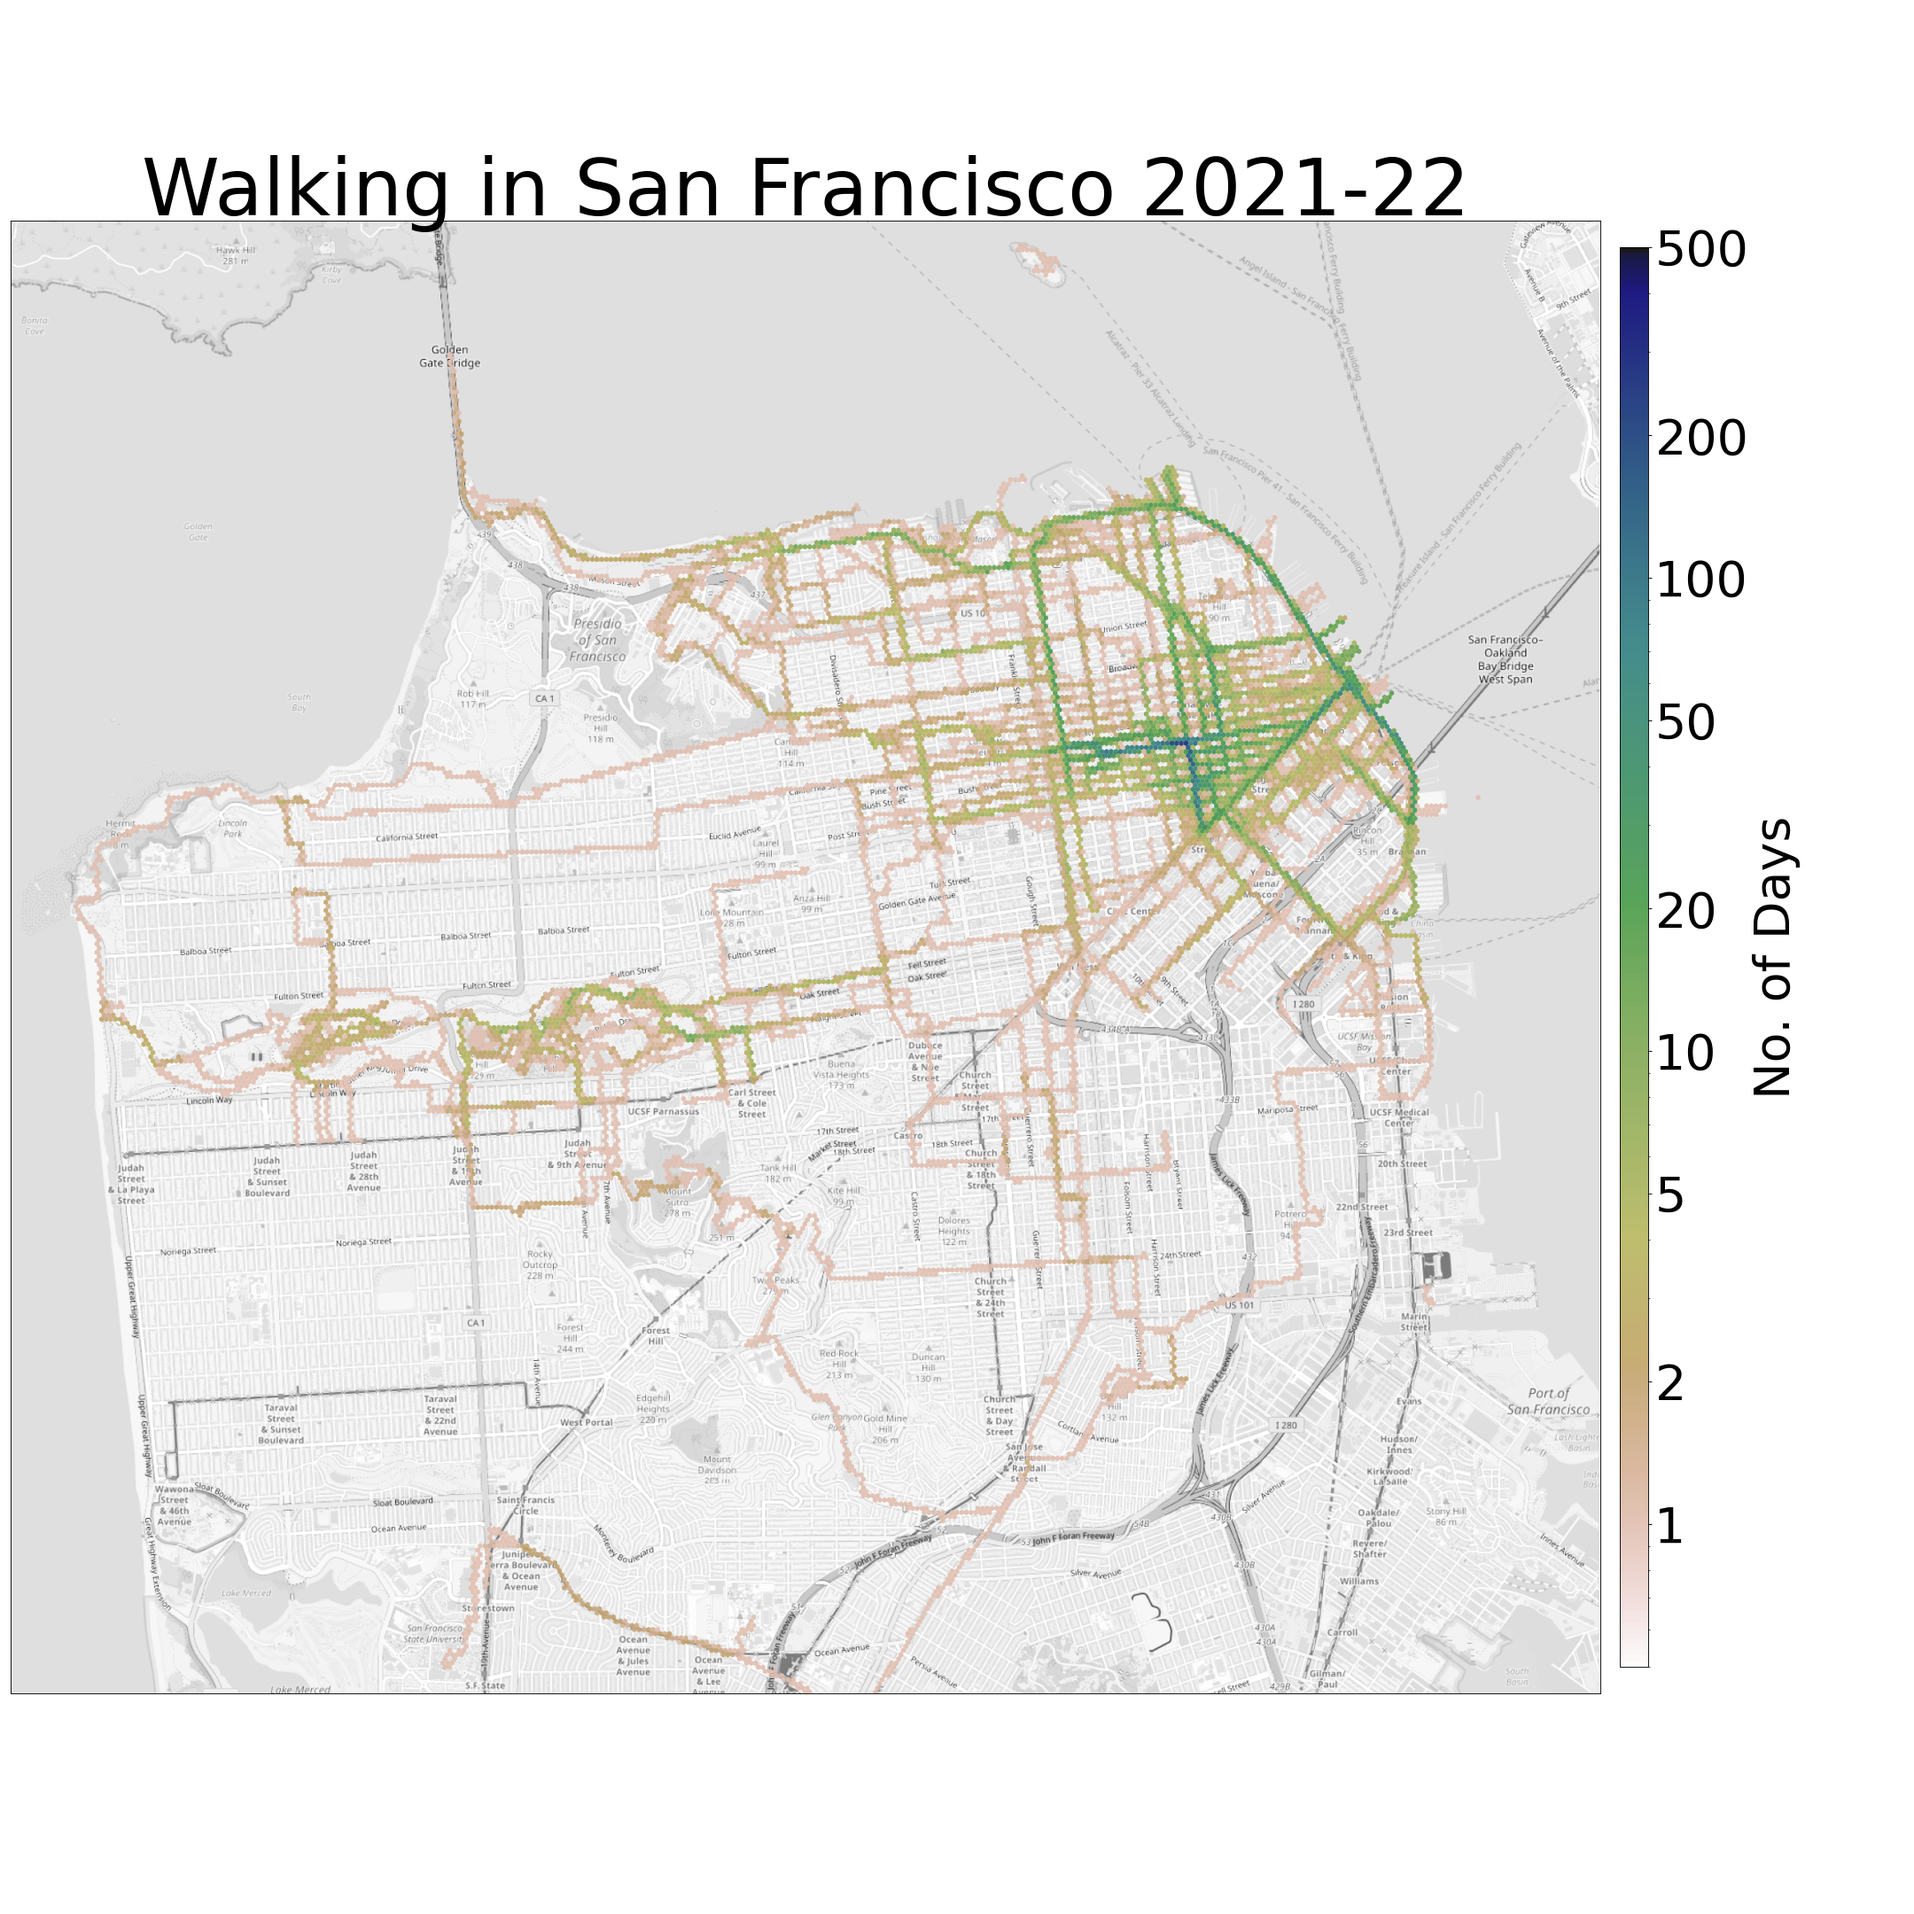
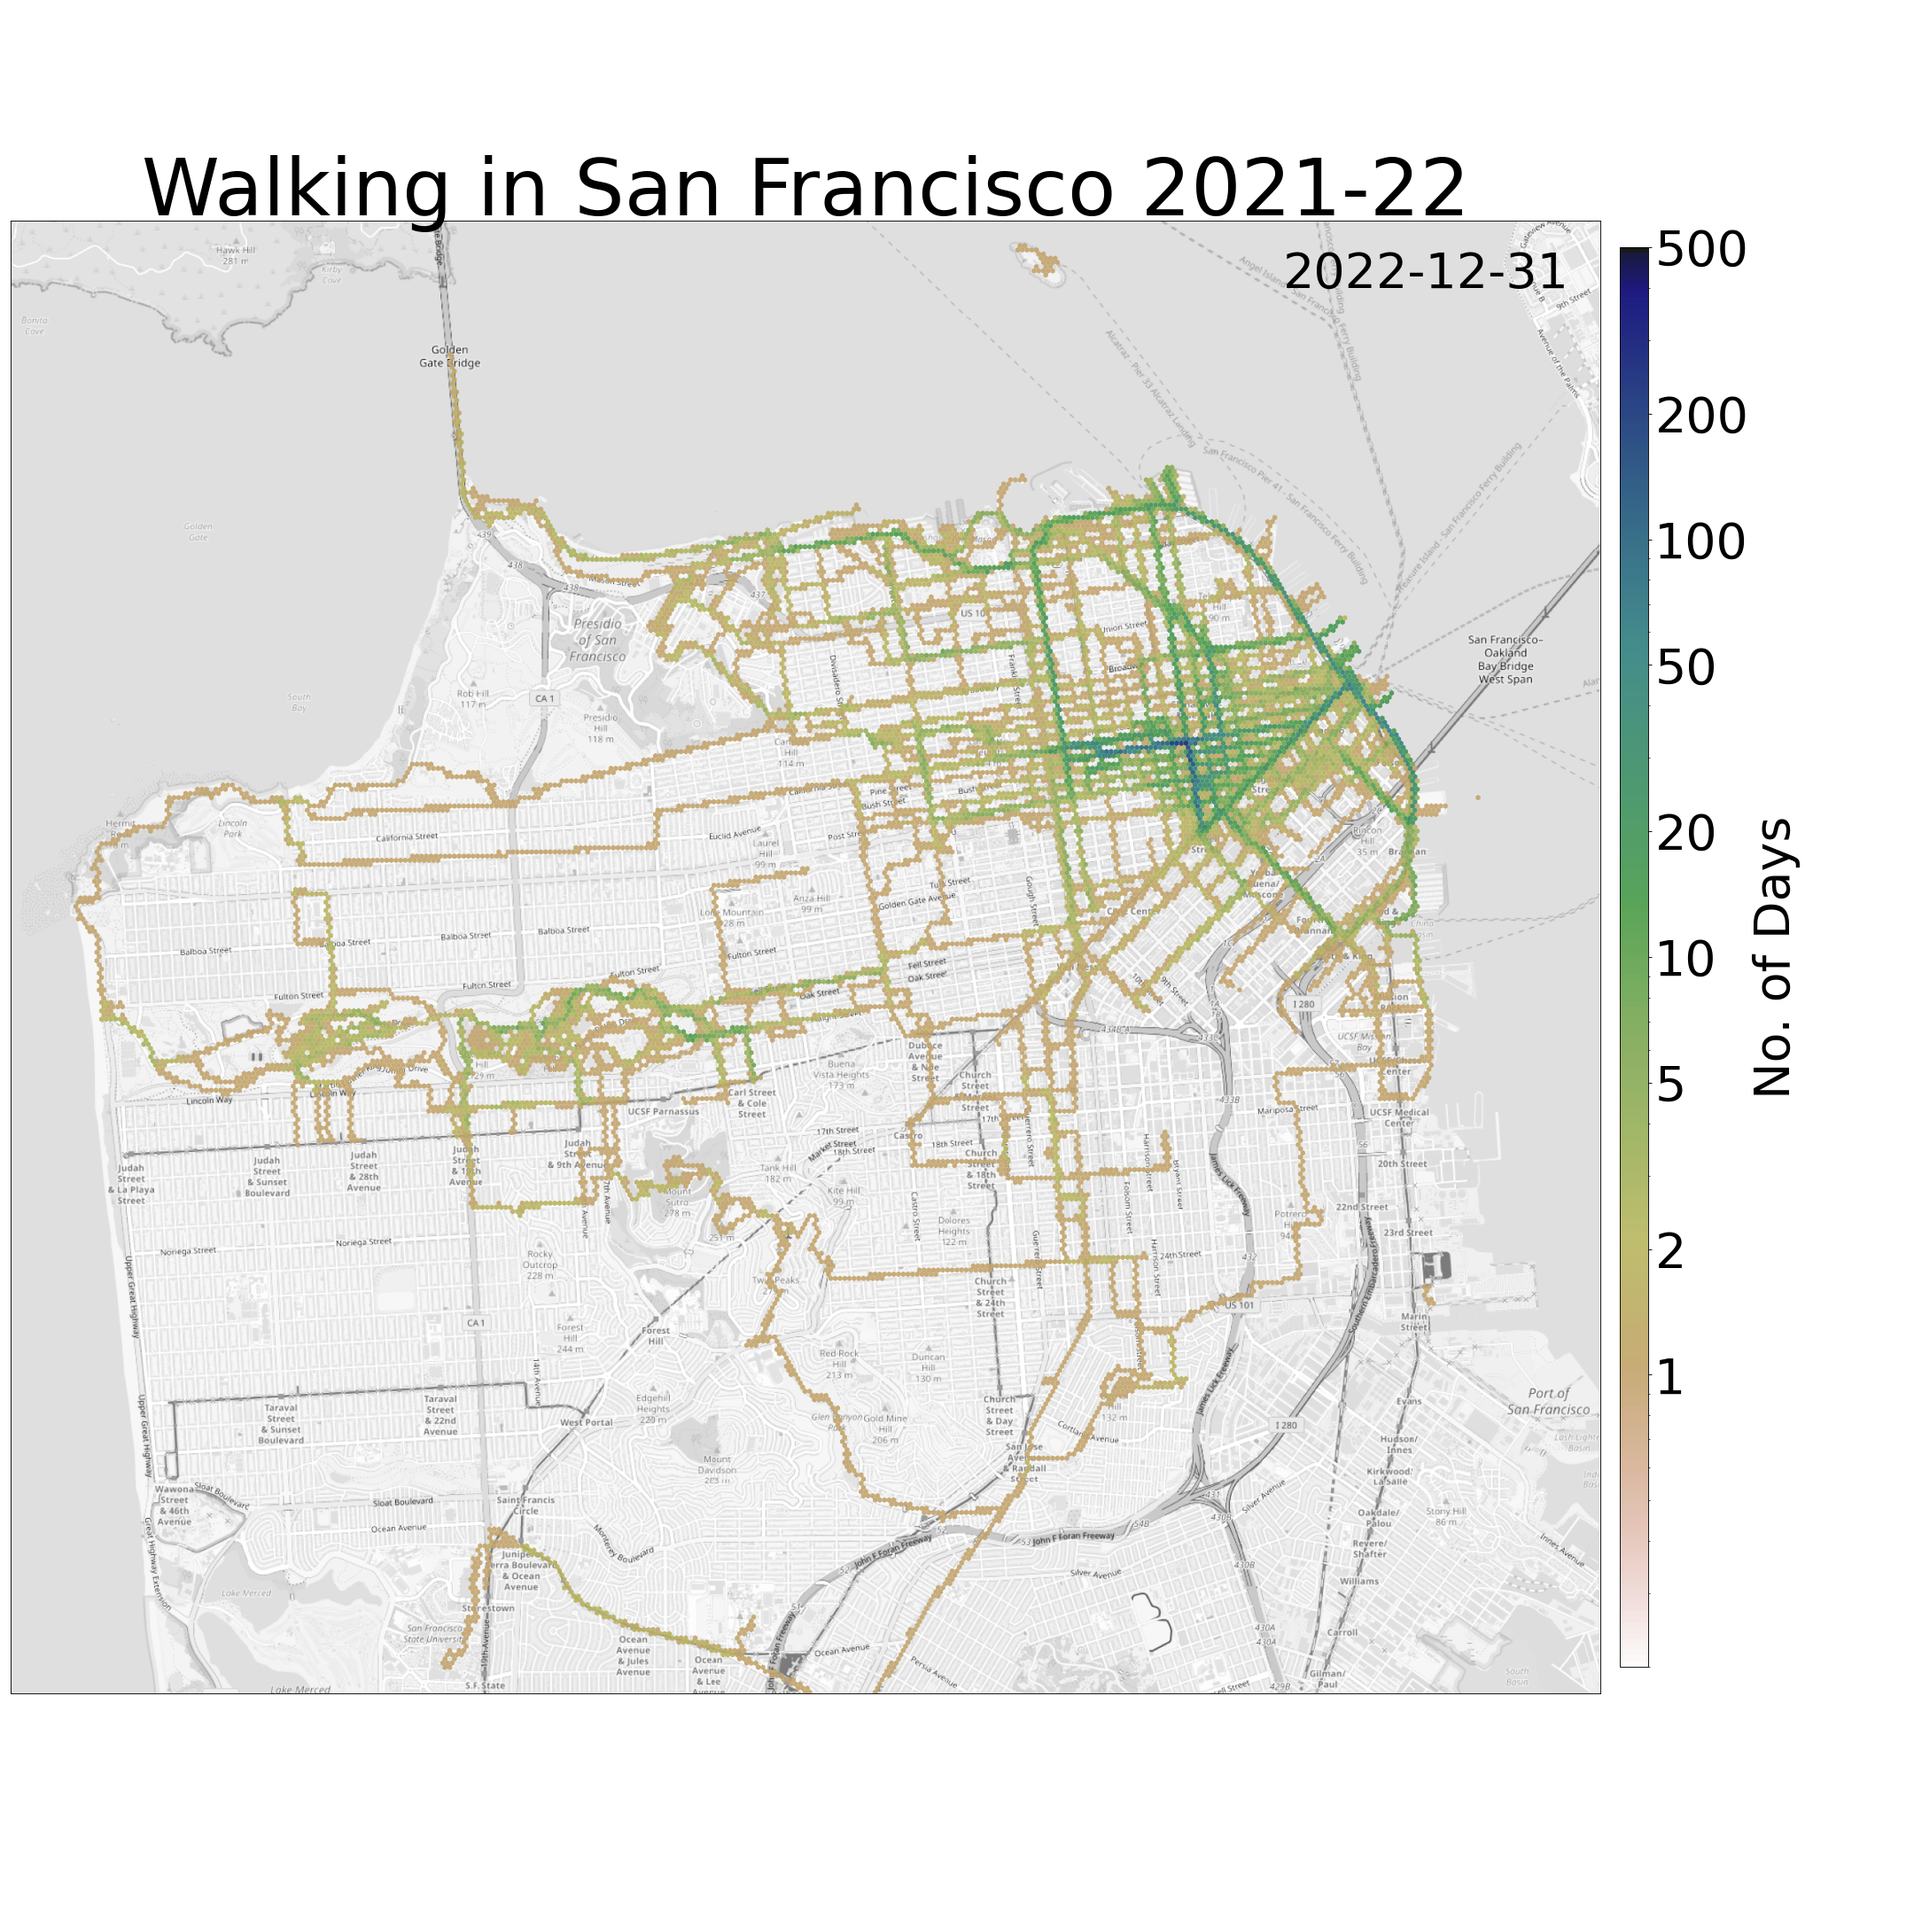
Create intermediate static maps, close open figures, massively improve runtime

diff --git a/show_route_map.py b/show_route_map.py
@@ -16,6 +16,7 @@ BASEMAP_FILENAME = 'sf_basemap.png'
 CUT_BASEMAP_FILENAME = 'sf_basemap_cut.png'
 
 OUT_MAP_FILENAME = 'sf_map.png'
+OUT_MAP_DIRNAME = 'route_maps'
 
 IMAGE_DPI = 80
 IMAGE_SIZE = 13.5 * 2
@@ -27,13 +28,14 @@ LON_MAX = -122.37
 LAT_MIN = 37.72
 LAT_MAX = 37.83
 LIMITS_TUPLE = [LON_MIN, LON_MAX, LAT_MIN, LAT_MAX]
-LAT_LON_RATIO = 1.2625
+LAT_LON_RATIO = 1.2625 # at latitude 37.75 N
 
-DATA_BY_DAY_FILENAME = 'dates_to_ptval.data'
 OUT_ANIMATION_FILENAME = 'sf_map_animated.mp4'
 ANIMATION_MIN_DATE = date(2021, 1, 1)
 ANIMATION_MAX_DATE = date(2023, 1, 1)
 ANIMATION_FPS = 12
+LAST_FRAME_PAD = 5 * ANIMATION_FPS # 5 seconds
+
 ONE_DAY = timedelta(days=1)
 
 def build_base_map():
@@ -46,16 +48,21 @@ def build_base_map():
   fig.savefig(BASEMAP_FILENAME, dpi = IMAGE_DPI)
   print ("Basemap written to " + BASEMAP_FILENAME)
 
-def build_static_map():
+def build_static_map(start_date = ANIMATION_MIN_DATE, end_date_inclusive = ANIMATION_MAX_DATE - ONE_DAY,
+                      out_filename = OUT_MAP_FILENAME, pts_to_dates = None,
+                      show_fig = True, show_debug = True):
   basemap = mpimg.imread(CUT_BASEMAP_FILENAME)
-  print ("Basemap read from " + CUT_BASEMAP_FILENAME)
+  if show_debug:
+    print ("Basemap read from " + CUT_BASEMAP_FILENAME)
   fig = plt.figure(figsize=(IMAGE_SIZE, IMAGE_SIZE), dpi = IMAGE_DPI)
   ax = fig.add_subplot(1, 1, 1)
   ax.imshow(basemap, extent = LIMITS_TUPLE, aspect = LAT_LON_RATIO, alpha = 1.0)
 
-  with open(IN_FILENAME, 'rb') as f:
-    pts_to_dates = pickle.load(f)
-    print("Route data read from {}".format(IN_FILENAME))
+  if not pts_to_dates:
+    with open(IN_FILENAME, 'rb') as f:
+      pts_to_dates = pickle.load(f)
+      if show_debug:
+        print("Route data read from {}".format(IN_FILENAME))
 
   xs = []
   ys = []
@@ -64,13 +71,14 @@ def build_static_map():
   for (lon, lat), dates in pts_to_dates.items():
     if lon < LON_MIN or lon > LON_MAX or lat < LAT_MIN or lat > LAT_MAX:
       continue
+    num_d = len([d for d in dates if d >= start_date and d <= end_date_inclusive])
     xs.append(lon)
     ys.append(lat)
-    vals.append(len(dates))
+    vals.append(num_d)
 
   hexplot = ax.hexbin(x = xs, y = ys, C = vals, gridsize = 300,
                       cmap = 'gist_earth_r', alpha = 0.9, linewidths = 0,
-                      norm = colors.LogNorm(vmin = 0.5, vmax = 500))
+                      norm = colors.LogNorm(vmin = 0.2, vmax = 500))
   cbar = plt.colorbar(hexplot,
                       shrink = 0.75, aspect = 50,
                       format = "%d", pad = 0.01,
@@ -78,97 +86,68 @@ def build_static_map():
   cbar.ax.tick_params(labelsize = 50)
   cbar.set_label("No. of Days", size = 50)
 
+  ax.text(-122.40, 37.825, end_date_inclusive.isoformat(), fontsize = 50)
+
   plt.title("Walking in San Francisco 2021-22", fontsize = 80)
   plt.tick_params(left = False, right = False, labelleft = False,
                   labelbottom = False, bottom = False)
 
-  #plt.show()
+  if show_fig:
+    plt.show()
   fig.tight_layout()
-  fig.savefig(OUT_MAP_FILENAME, dpi = IMAGE_DPI)
-  print ("Map written to " + OUT_MAP_FILENAME)
+  fig.savefig(out_filename, dpi = IMAGE_DPI)
+  print ("Map written to " + out_filename)
+  plt.close(fig)
 
-def build_dynamic_map(rebuild_animation_data = True):
-  basemap = mpimg.imread(CUT_BASEMAP_FILENAME)
-  print ("Basemap read from " + CUT_BASEMAP_FILENAME)
+def rebuild_route_maps(start_date = ANIMATION_MIN_DATE, end_date = ANIMATION_MAX_DATE):
+  with open(IN_FILENAME, 'rb') as f:
+    pts_to_dates = pickle.load(f)
+    print("Route data read from {}".format(IN_FILENAME))
+
+  d = start_date
+  while d < end_date:
+    route_map_filename = OUT_MAP_DIRNAME + '/' + d.isoformat() + ".png"
+    build_static_map(start_date = start_date, end_date_inclusive = d,
+                      out_filename = route_map_filename, pts_to_dates = pts_to_dates,
+                      show_fig = False, show_debug = False)
+    d += ONE_DAY
+
+def build_dynamic_map(start_date = ANIMATION_MIN_DATE, end_date = ANIMATION_MAX_DATE,
+                      rebuild_each_map = True, last_frame_pad = LAST_FRAME_PAD):
+  if rebuild_each_map:
+    rebuild_route_maps(start_date = start_date, end_date = end_date)
+
   fig = plt.figure(figsize=(IMAGE_SIZE, IMAGE_SIZE), dpi = IMAGE_DPI)
 
-  if rebuild_animation_data:
-    with open(IN_FILENAME, 'rb') as f:
-      pts_to_dates = pickle.load(f)
-      print("Route data read from {}".format(IN_FILENAME))
-
-    print ("Total points: " + str(len(pts_to_dates)))
-
-    date_to_ptvals = {}
-    n = 0
-
-    for (lon, lat), dates in pts_to_dates.items():
-      n += 1
-      if lon < LON_MIN or lon > LON_MAX or lat < LAT_MIN or lat > LAT_MAX:
-        continue
-      for date in dates:
-        d = date
-        while d < ANIMATION_MAX_DATE:
-          if d not in date_to_ptvals:
-            date_to_ptvals[d] = {}
-          if (lon, lat) not in date_to_ptvals[d]:
-            date_to_ptvals[d][(lon, lat)] = 0
-          date_to_ptvals[d][(lon, lat)] += 1
-          d += ONE_DAY
-
-      #print ("Processed " + "(" + str(lon) + ", " + str(lat) + ")" + " with no. of days: " + str(len(dates)))
-      if n % 1000 == 0:
-        print ("Processed " + str(n) + " points")
-
-    with open(DATA_BY_DAY_FILENAME, 'wb+') as f:
-      pickle.dump(date_to_ptvals, f)
-      print("Animated route data written to {}".format(DATA_BY_DAY_FILENAME))
-
-  with open(DATA_BY_DAY_FILENAME, 'rb') as f:
-    date_to_ptvals = pickle.load(f)
-    print("Animated route data read from {}".format(DATA_BY_DAY_FILENAME))
+  pad = last_frame_pad
 
   moviewriter = anim.FFMpegWriter(fps = ANIMATION_FPS)
   with moviewriter.saving(fig, OUT_ANIMATION_FILENAME, dpi = IMAGE_DPI):
-    d = ANIMATION_MIN_DATE
-    while d < ANIMATION_MAX_DATE:
-      print (str(d) + " has No. of points: " + str(len(date_to_ptvals[d])))
-
-      xs = []
-      ys = []
-      vals = []
-      for (lon, lat), val in date_to_ptvals[d].items():
-        xs.append(lon)
-        ys.append(lat)
-        vals.append(val)
+    d = start_date
+    while d < end_date and pad > 0:
+      route_map_filename = OUT_MAP_DIRNAME + '/' + str(d) + ".png"
+      route_map = mpimg.imread(route_map_filename)
+      print ("Route map read from " + route_map_filename)
 
       ax = fig.add_subplot(1, 1, 1)
       fig.tight_layout()
 
-      ax.imshow(basemap, extent = LIMITS_TUPLE, aspect = LAT_LON_RATIO, alpha = 1.0)
-
-      hexplot = ax.hexbin(x = xs, y = ys, C = vals, gridsize = 300,
-                          cmap = 'gist_earth_r', alpha = 0.9, linewidths = 0,
-                          norm = colors.LogNorm(vmin = 0.5, vmax = 500))
-
-      cbar = plt.colorbar(hexplot,
-                          shrink = 0.75, aspect = 50,
-                          format = "%d", pad = 0.01,
-                          ticks = [1, 2, 5, 10, 20, 50, 100, 200, 500])
-      cbar.ax.tick_params(labelsize = 50)
-      cbar.set_label("No. of Days", size = 50)
-
-      ax.text(-122.40, 37.825, d.isoformat(), fontsize = 50)
-
-      plt.title("Walking in San Francisco 2021-22", fontsize = 80)
-      plt.tick_params(left = False, right = False, labelleft = False,
-                      labelbottom = False, bottom = False)
+      ax.imshow(route_map, extent = LIMITS_TUPLE, aspect = LAT_LON_RATIO, alpha = 1.0)
 
       moviewriter.grab_frame()
-      d += ONE_DAY
+      ax.clear()
+
+      if d < end_date:
+        d += ONE_DAY
+      else:
+        pad -= 1
 
   print ("Animation written to " + OUT_ANIMATION_FILENAME)
 
-#build_base_map() # needs cropping
-#build_static_map()
-build_dynamic_map(rebuild_animation_data = True)
+#build_base_map() # needs cropping, cropped map already at sf_basemap_cut.png
+
+#build_static_map(show_fig = False, show_debug = True)
+#build_static_map(start_date = date(2021, 1, 1), end_date_inclusive = date(2021, 2, 1) - ONE_DAY, show_fig = False, show_debug = True)
+
+build_dynamic_map(rebuild_each_map = True)
+#build_dynamic_map(start_date = date(2021, 1, 1), end_date = date(2021, 2, 1), rebuild_each_map = True)
